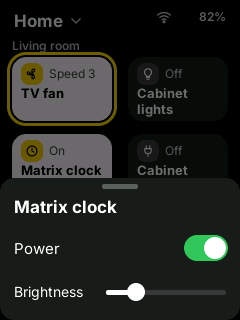
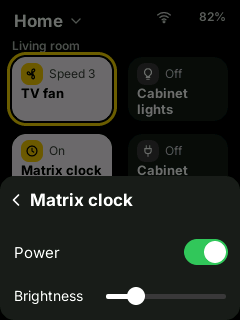
feat(ui): Back button at the top of the device menus

diff --git a/firmware/ui_lv.h b/firmware/ui_lv.h
@@ -1092,6 +1092,13 @@ inline lv_obj_t *toggle(lv_obj_t *row) {
   return t;
 }
 
+// Top of a device menu: a Back button (chevron and the device's name) that closes it.
+inline lv_obj_t *sheet_back(lv_obj_t *s, const std::string &id, const char *name) {
+  lv_obj_t *b = nm(button(s, 4, 2, 190, 44, WHITE, LV_OPA_TRANSP, 9, [] { close_sheets(); }), id);
+  icon(b, "chev_left", 20, 2, 12, WHITE);
+  return text(b, 26, 11, 160, R.f17b, WHITE, name);
+}
+
 inline void build_options();
 inline void destroy_options() {
   if (!op.root) return;
@@ -1136,10 +1143,10 @@ inline void set_speed(int d) {
 
 inline void build_options() {
   op.root = dim_layer("opt_dim");
-  lv_obj_t *s = nm(box(op.root, 0, 46, 240, 274, SHEET, LV_OPA_COVER, 14), "opt_sheet");
+  lv_obj_t *s = nm(box(op.root, 0, 26, 240, 294, SHEET, LV_OPA_COVER, 14), "opt_sheet");
   lv_obj_add_flag(s, LV_OBJ_FLAG_CLICKABLE);
-  box(s, 102, 6, 36, 5, WHITE, 77, 2);
-  lv_obj_t *pw = nm(button(s, 0, 14, 240, 44, WHITE, LV_OPA_TRANSP, 0, [] {
+  op.title = sheet_back(s, "opt_back", "");
+  lv_obj_t *pw = nm(button(s, 0, 54, 240, 44, WHITE, LV_OPA_TRANSP, 0, [] {
                       Tile *tp = opt_tile();
                       if (!tp) return;
                       Tile &t = *tp;
@@ -1148,22 +1155,22 @@ inline void build_options() {
                       t.state = on ? "on" : "off";
                       paint_toggle(op.power_tog, on);
                     }), "row_opt_power");
-  op.title = text(pw, 14, 12, 160, R.f17b, WHITE, "");
+  text(pw, 14, 13, 160, R.f15, WHITE, "Power");
   op.power_tog = toggle(pw);
-  text(s, 12, 66, 0, R.f12s, WHITE, "Speed", LV_TEXT_ALIGN_LEFT, 184);
-  lv_obj_t *minus = nm(button(s, 12, 84, 56, 44, CARD, LV_OPA_COVER, 12, [] { set_speed(-1); }), "opt_speed_minus");
+  text(s, 12, 106, 0, R.f12s, WHITE, "Speed", LV_TEXT_ALIGN_LEFT, 184);
+  lv_obj_t *minus = nm(button(s, 12, 124, 56, 44, CARD, LV_OPA_COVER, 12, [] { set_speed(-1); }), "opt_speed_minus");
   icon(minus, "minus", 20, 18, 12, WHITE);
-  op.speed = text(s, 76, 92, 40, R.f20b, WHITE, "0", LV_TEXT_ALIGN_RIGHT);
-  op.of = text(s, 120, 97, 48, R.f13, WHITE, "of 6", LV_TEXT_ALIGN_LEFT, 191);
-  lv_obj_t *plus = nm(button(s, 172, 84, 56, 44, CARD, LV_OPA_COVER, 12, [] { set_speed(1); }), "opt_speed_plus");
+  op.speed = text(s, 76, 132, 40, R.f20b, WHITE, "0", LV_TEXT_ALIGN_RIGHT);
+  op.of = text(s, 120, 137, 48, R.f13, WHITE, "of 6", LV_TEXT_ALIGN_LEFT, 191);
+  lv_obj_t *plus = nm(button(s, 172, 124, 56, 44, CARD, LV_OPA_COVER, 12, [] { set_speed(1); }), "opt_speed_plus");
   icon(plus, "plus", 20, 18, 12, WHITE);
-  text(s, 12, 138, 0, R.f12s, WHITE, "Timer", LV_TEXT_ALIGN_LEFT, 184);
+  text(s, 12, 178, 0, R.f12s, WHITE, "Timer", LV_TEXT_ALIGN_LEFT, 184);
   // Atomberg timer options: Off, 1, 2, 3, 6 hours
   static const char *const T[] = {"Off", "1 h", "3 h", "6 h"};
   static const int H[] = {0, 1, 3, 6};
   for (int i = 0; i < 4; i++) {
     int hours = H[i];
-    lv_obj_t *b = nm(text_button(s, 12 + 56 * i, 156, 48, 44, T[i], CARD, LV_OPA_COVER, 12, WHITE, [i, hours] {
+    lv_obj_t *b = nm(text_button(s, 12 + 56 * i, 196, 48, 44, T[i], CARD, LV_OPA_COVER, 12, WHITE, [i, hours] {
                        for (int k = 0; k < 4; k++)
                          lv_obj_set_style_bg_color(op.timers[k], lv_color_hex(k == i ? BLUE : CARD), 0);
                        if (opt_tile() && hooks.ha) hooks.ha("timer", opt_tile()->timer, std::to_string(hours));
@@ -1171,7 +1178,7 @@ inline void build_options() {
     op.timers.push_back(b);
   }
   lv_obj_set_style_bg_color(op.timers[0], lv_color_hex(BLUE), 0);
-  op.led_row = nm(button(s, 0, 210, 240, 44, WHITE, LV_OPA_TRANSP, 0, [] {
+  op.led_row = nm(button(s, 0, 248, 240, 44, WHITE, LV_OPA_TRANSP, 0, [] {
                     if (!opt_tile()) return;
                     if (hooks.ha) hooks.ha("toggle", opt_tile()->led, "");
                     lv_obj_t *t = op.led_tog;
@@ -1375,13 +1382,12 @@ inline void open_group(const std::string &tile_id) {
   gs.tile_id = tile_id;
   gs.rows = group_rows(*tp);
   int n = (int) gs.rows.size();
-  int list_h = std::min(44 * n, 264), sheet_h = 48 + list_h + 6;   // six rows fit without scrolling
+  int list_h = std::min(44 * n, 264), sheet_h = 54 + list_h + 2;   // six rows fit without scrolling
   gs.root = dim_layer("grp_dim");
   lv_obj_t *s = nm(box(gs.root, 0, 320 - sheet_h, 240, sheet_h, SHEET, LV_OPA_COVER, 14), "grp_sheet");
   lv_obj_add_flag(s, LV_OBJ_FLAG_CLICKABLE);
-  box(s, 102, 6, 36, 5, WHITE, 77, 2);
-  text(s, 14, 18, 212, R.f17b, WHITE, tp->name.c_str());
-  gs.list = nm(box(s, 0, 48, 240, list_h, WHITE, LV_OPA_TRANSP), "grp_list");
+  sheet_back(s, "grp_back", tp->name.c_str());
+  gs.list = nm(box(s, 0, 54, 240, list_h, WHITE, LV_OPA_TRANSP), "grp_list");
   if (44 * n > list_h) {
     lv_obj_add_flag(gs.list, LV_OBJ_FLAG_SCROLLABLE);
     lv_obj_set_scroll_dir(gs.list, LV_DIR_VER);

diff --git a/firmware/sim_fixtures.h b/firmware/sim_fixtures.h
@@ -192,8 +192,10 @@ inline bool sim_load_fixture(const std::string &f, int64_t now_ms) {
     ui::parse_members(SIM_MEMBERS);                                  // HA reports again
     ui::refresh_group();
     ok &= ui::gs.rows[1].on && ui::gs.rows[1].bri == 40;
-    ui::close_sheets();
+    // the Back button at the top of the menu closes it
+    lv_obj_send_event(lv_obj_get_child(lv_obj_get_child(ui::gs.root, 0), 0), LV_EVENT_CLICKED, nullptr);
     settle();
+    ok &= !ui::gs.root && !ui::sheet_open();
     lv_obj_send_event(ui::hp.objs[1], LV_EVENT_PRESSED, nullptr);
     lv_obj_send_event(ui::hp.objs[1], LV_EVENT_RELEASED, nullptr);
     lv_obj_send_event(ui::hp.objs[1], LV_EVENT_SHORT_CLICKED, nullptr);
